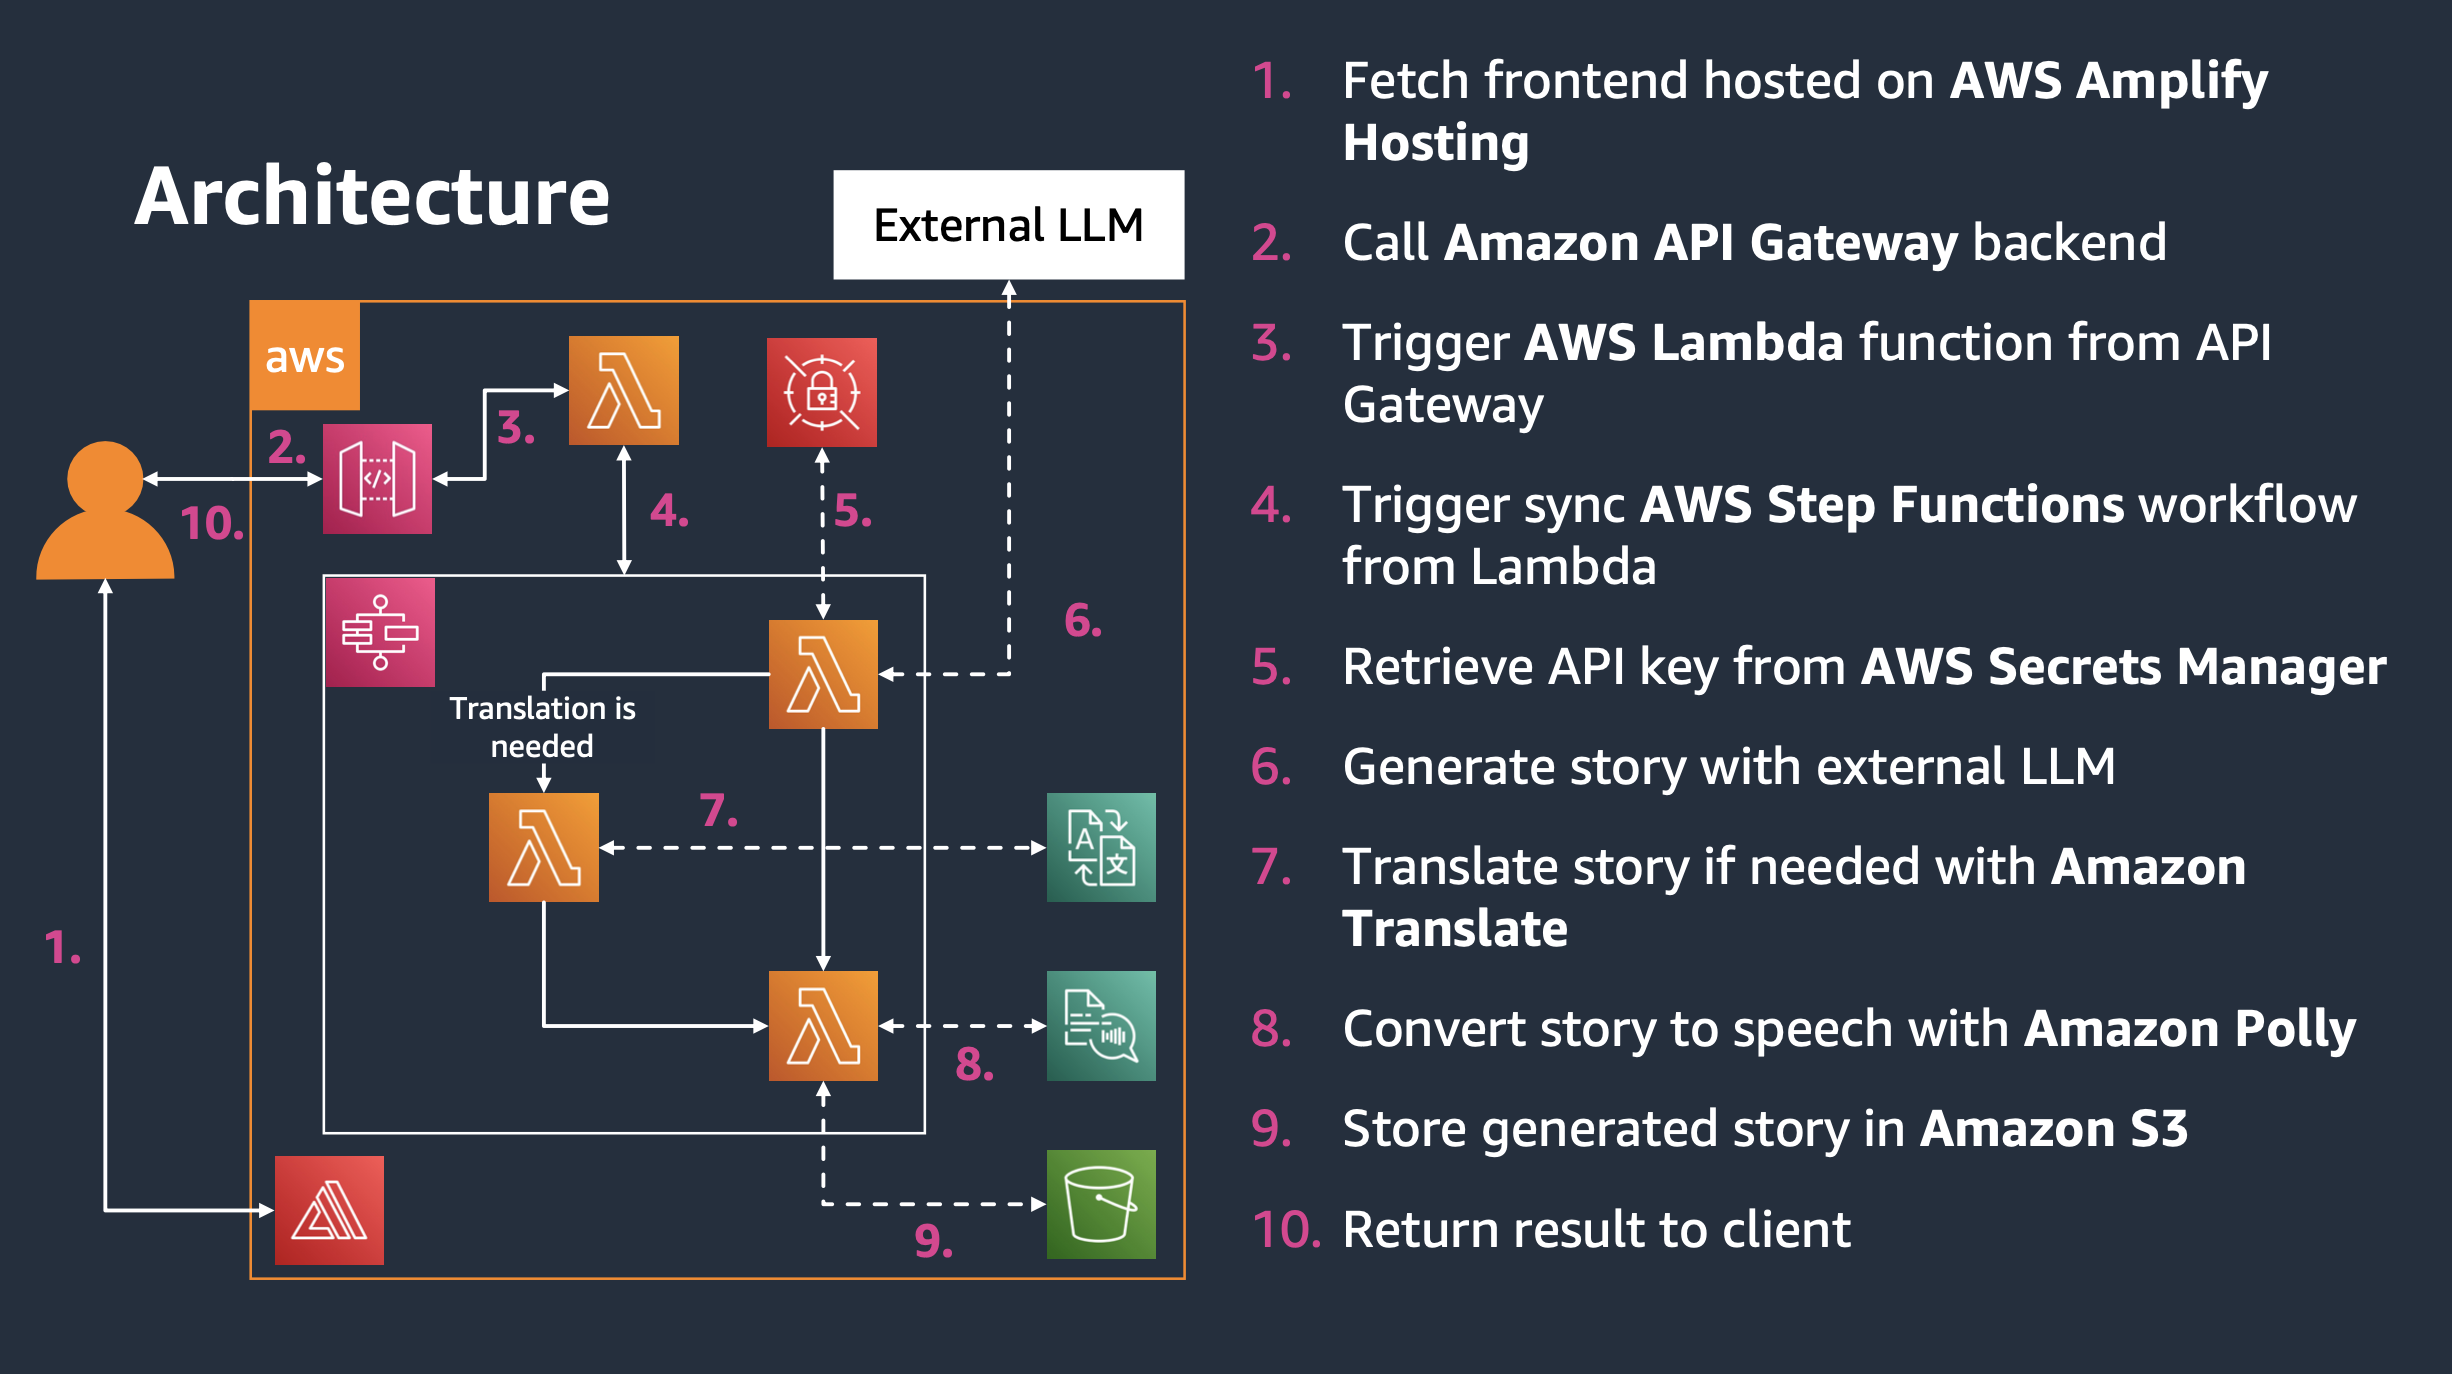
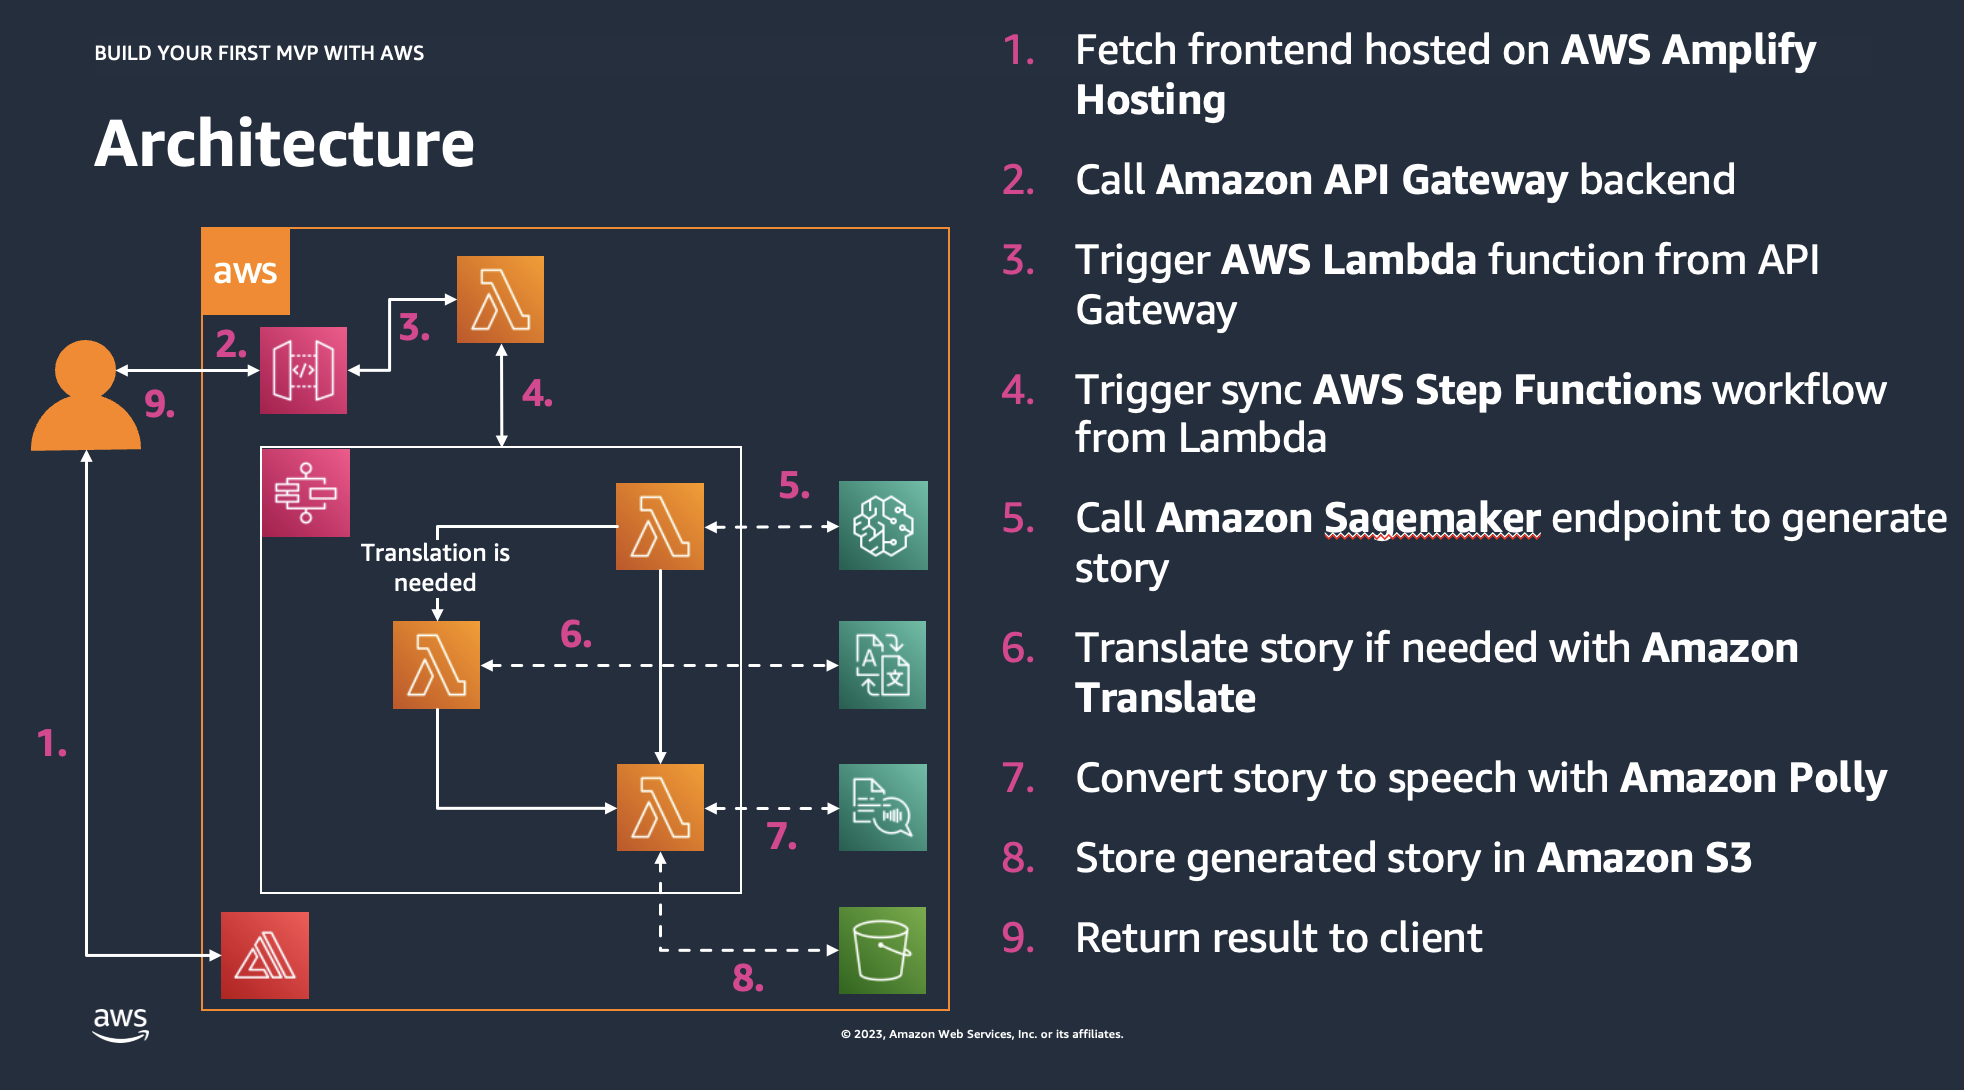
Update architecture

diff --git a/README.md b/README.md
@@ -6,7 +6,6 @@ In order to proceed with the demo, you should have the following:
 - [AWS CLI](https://docs.aws.amazon.com/cli/latest/userguide/getting-started-install.html) installed
 - [AWS SAM](https://docs.aws.amazon.com/serverless-application-model/latest/developerguide/install-sam-cli.html) installed
 - [Configure your AWS credentials](https://docs.aws.amazon.com/cli/latest/userguide/cli-chap-configure.html)
-- Have an API key for the [external LLM (Large Language Model)](https://platform.openai.com/) we will be using during the demo.
 - Download the contents of this directory to use it when going over the demo.
 
 ## What we are building
@@ -41,7 +40,8 @@ During this demo, we will be performing API calls to a LLM. In order to deploy o
   ![plot](./images/sagemaker/6.png)
 10. Click on **Deploy**
   ![plot](./images/sagemaker/7.png)
-11. Take note of the endpoint ARN and name
+  > Note: You might receive an error informing you that you have available instance to deploy your endpoint to. You might need to request a quota increase for this type of instance [here](https://console.aws.amazon.com/servicequotas/home/services/sagemaker/quotas).
+1.  Take note of the endpoint ARN and name
   ![plot](./images/sagemaker/8.png)
 
 The deployment of your Sagemaker endpoint should take about 5-10 minutes. We will continue with the rest of the app in the meantime. 
